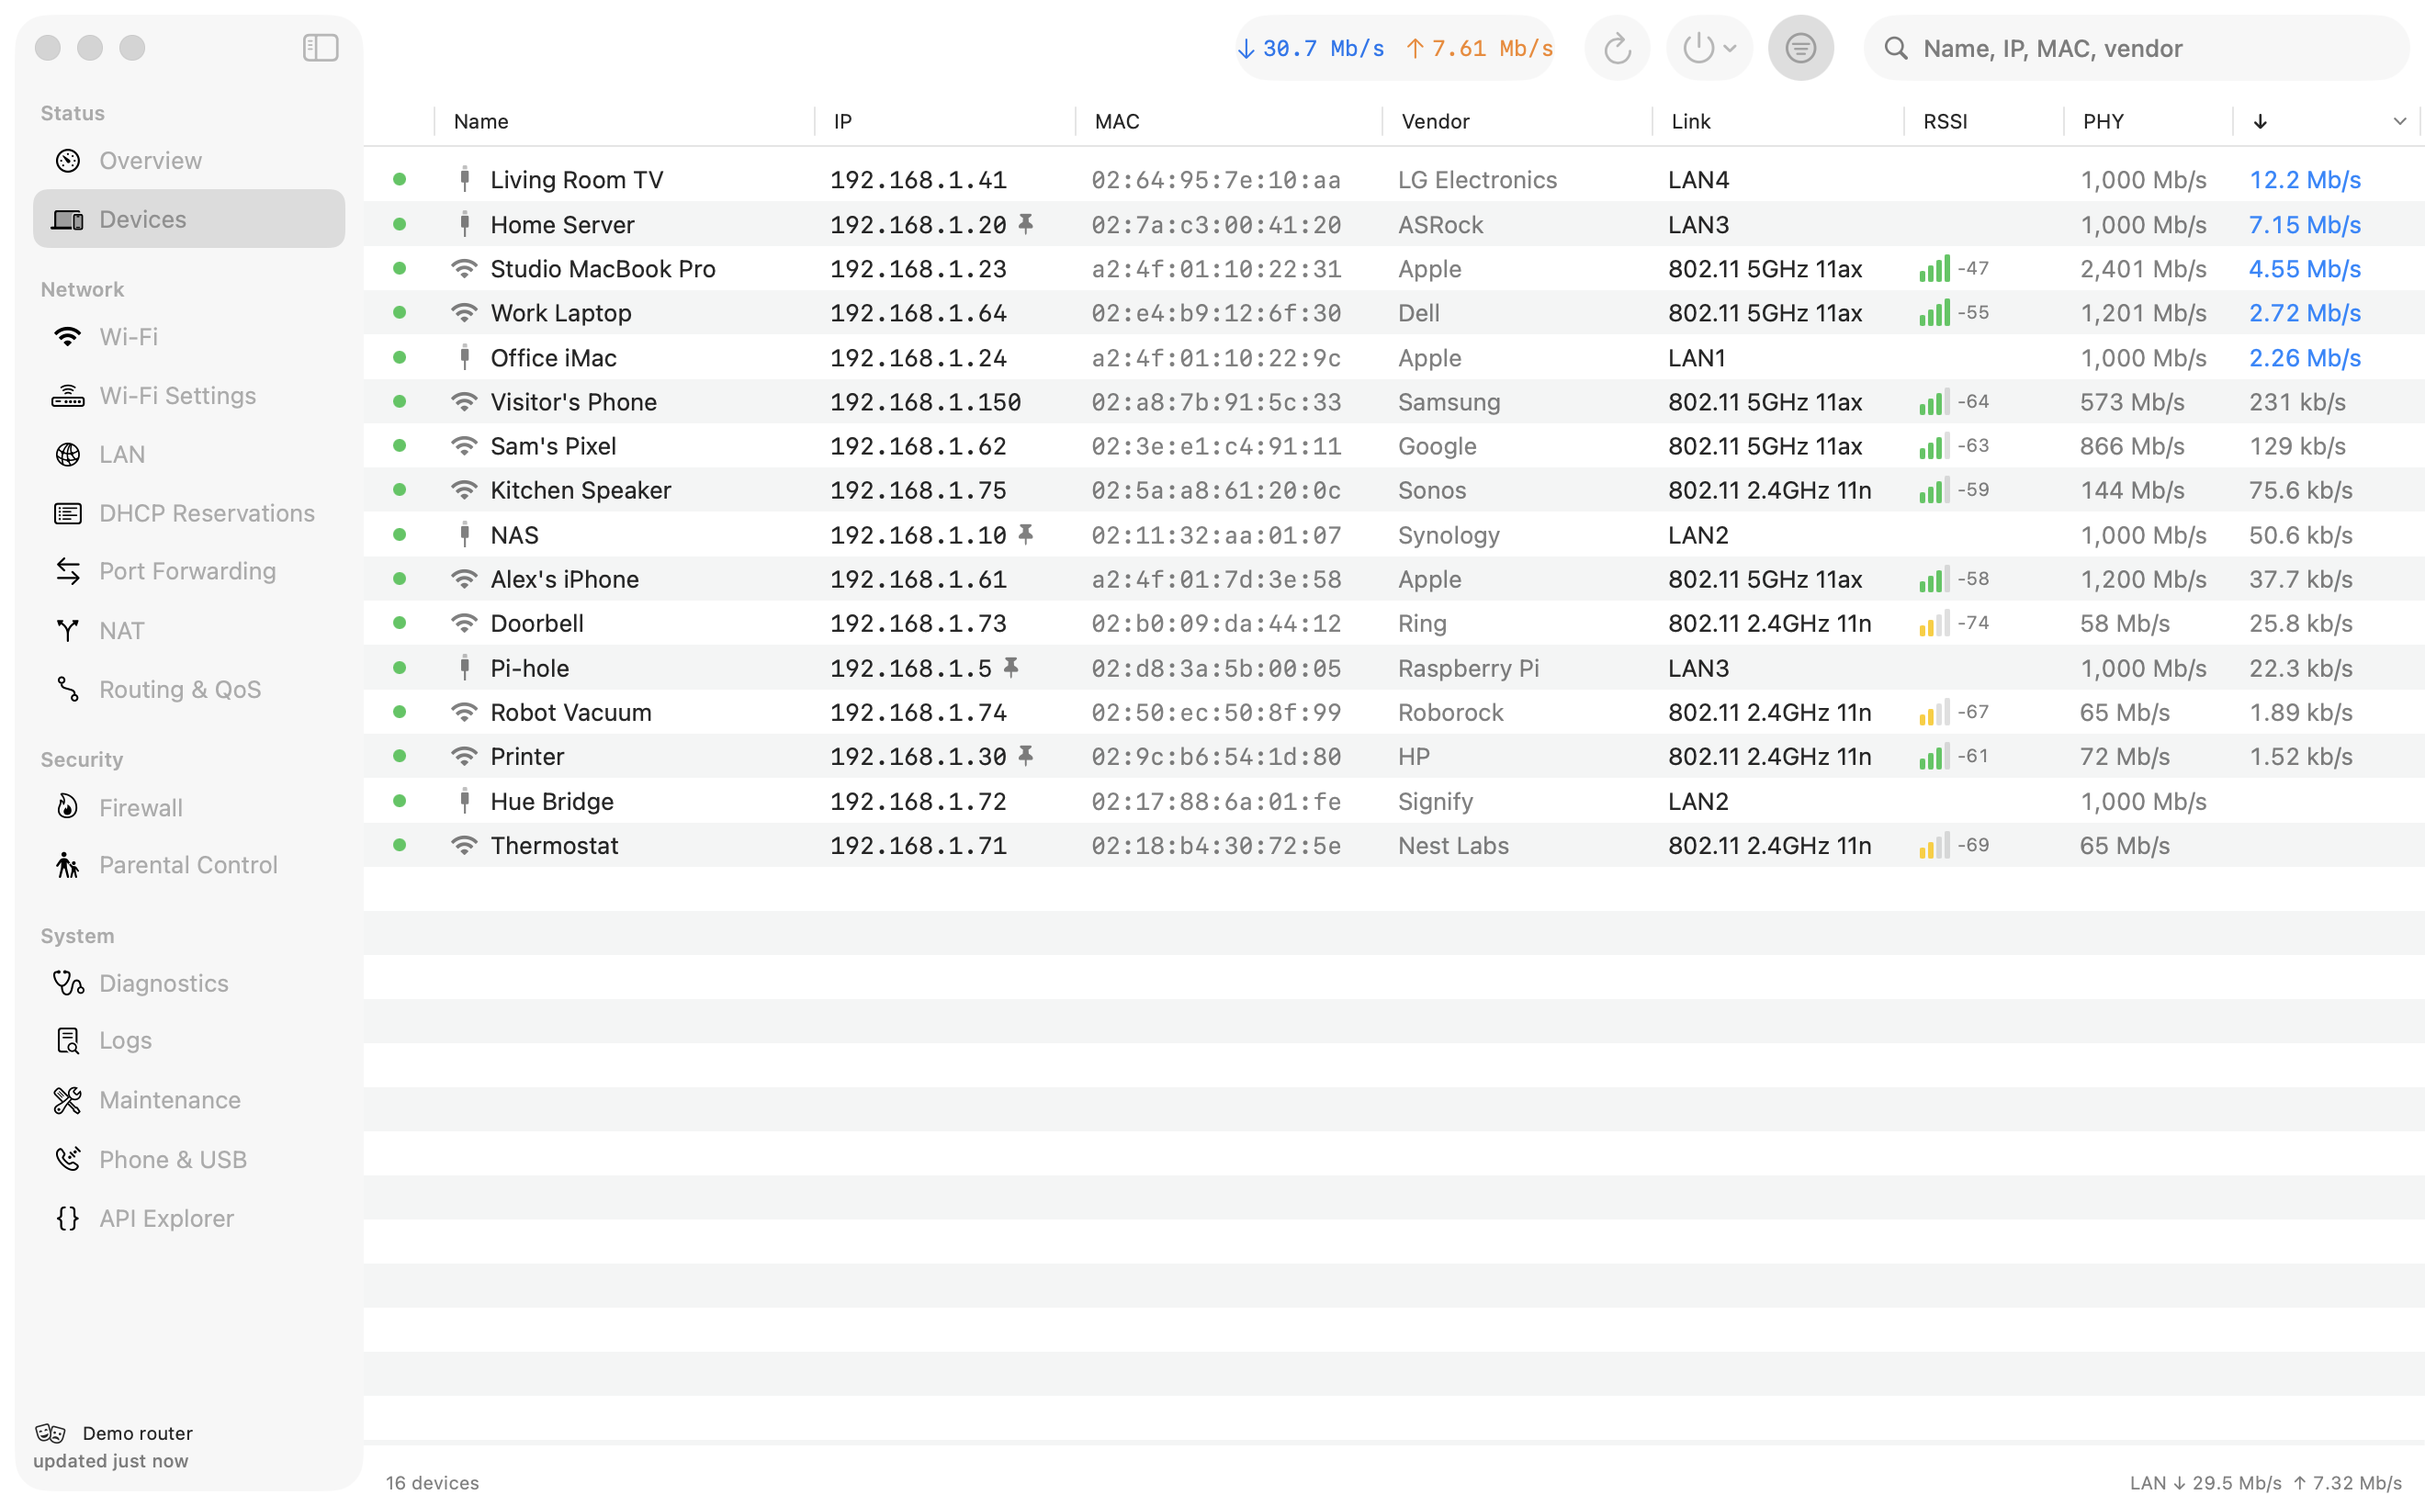
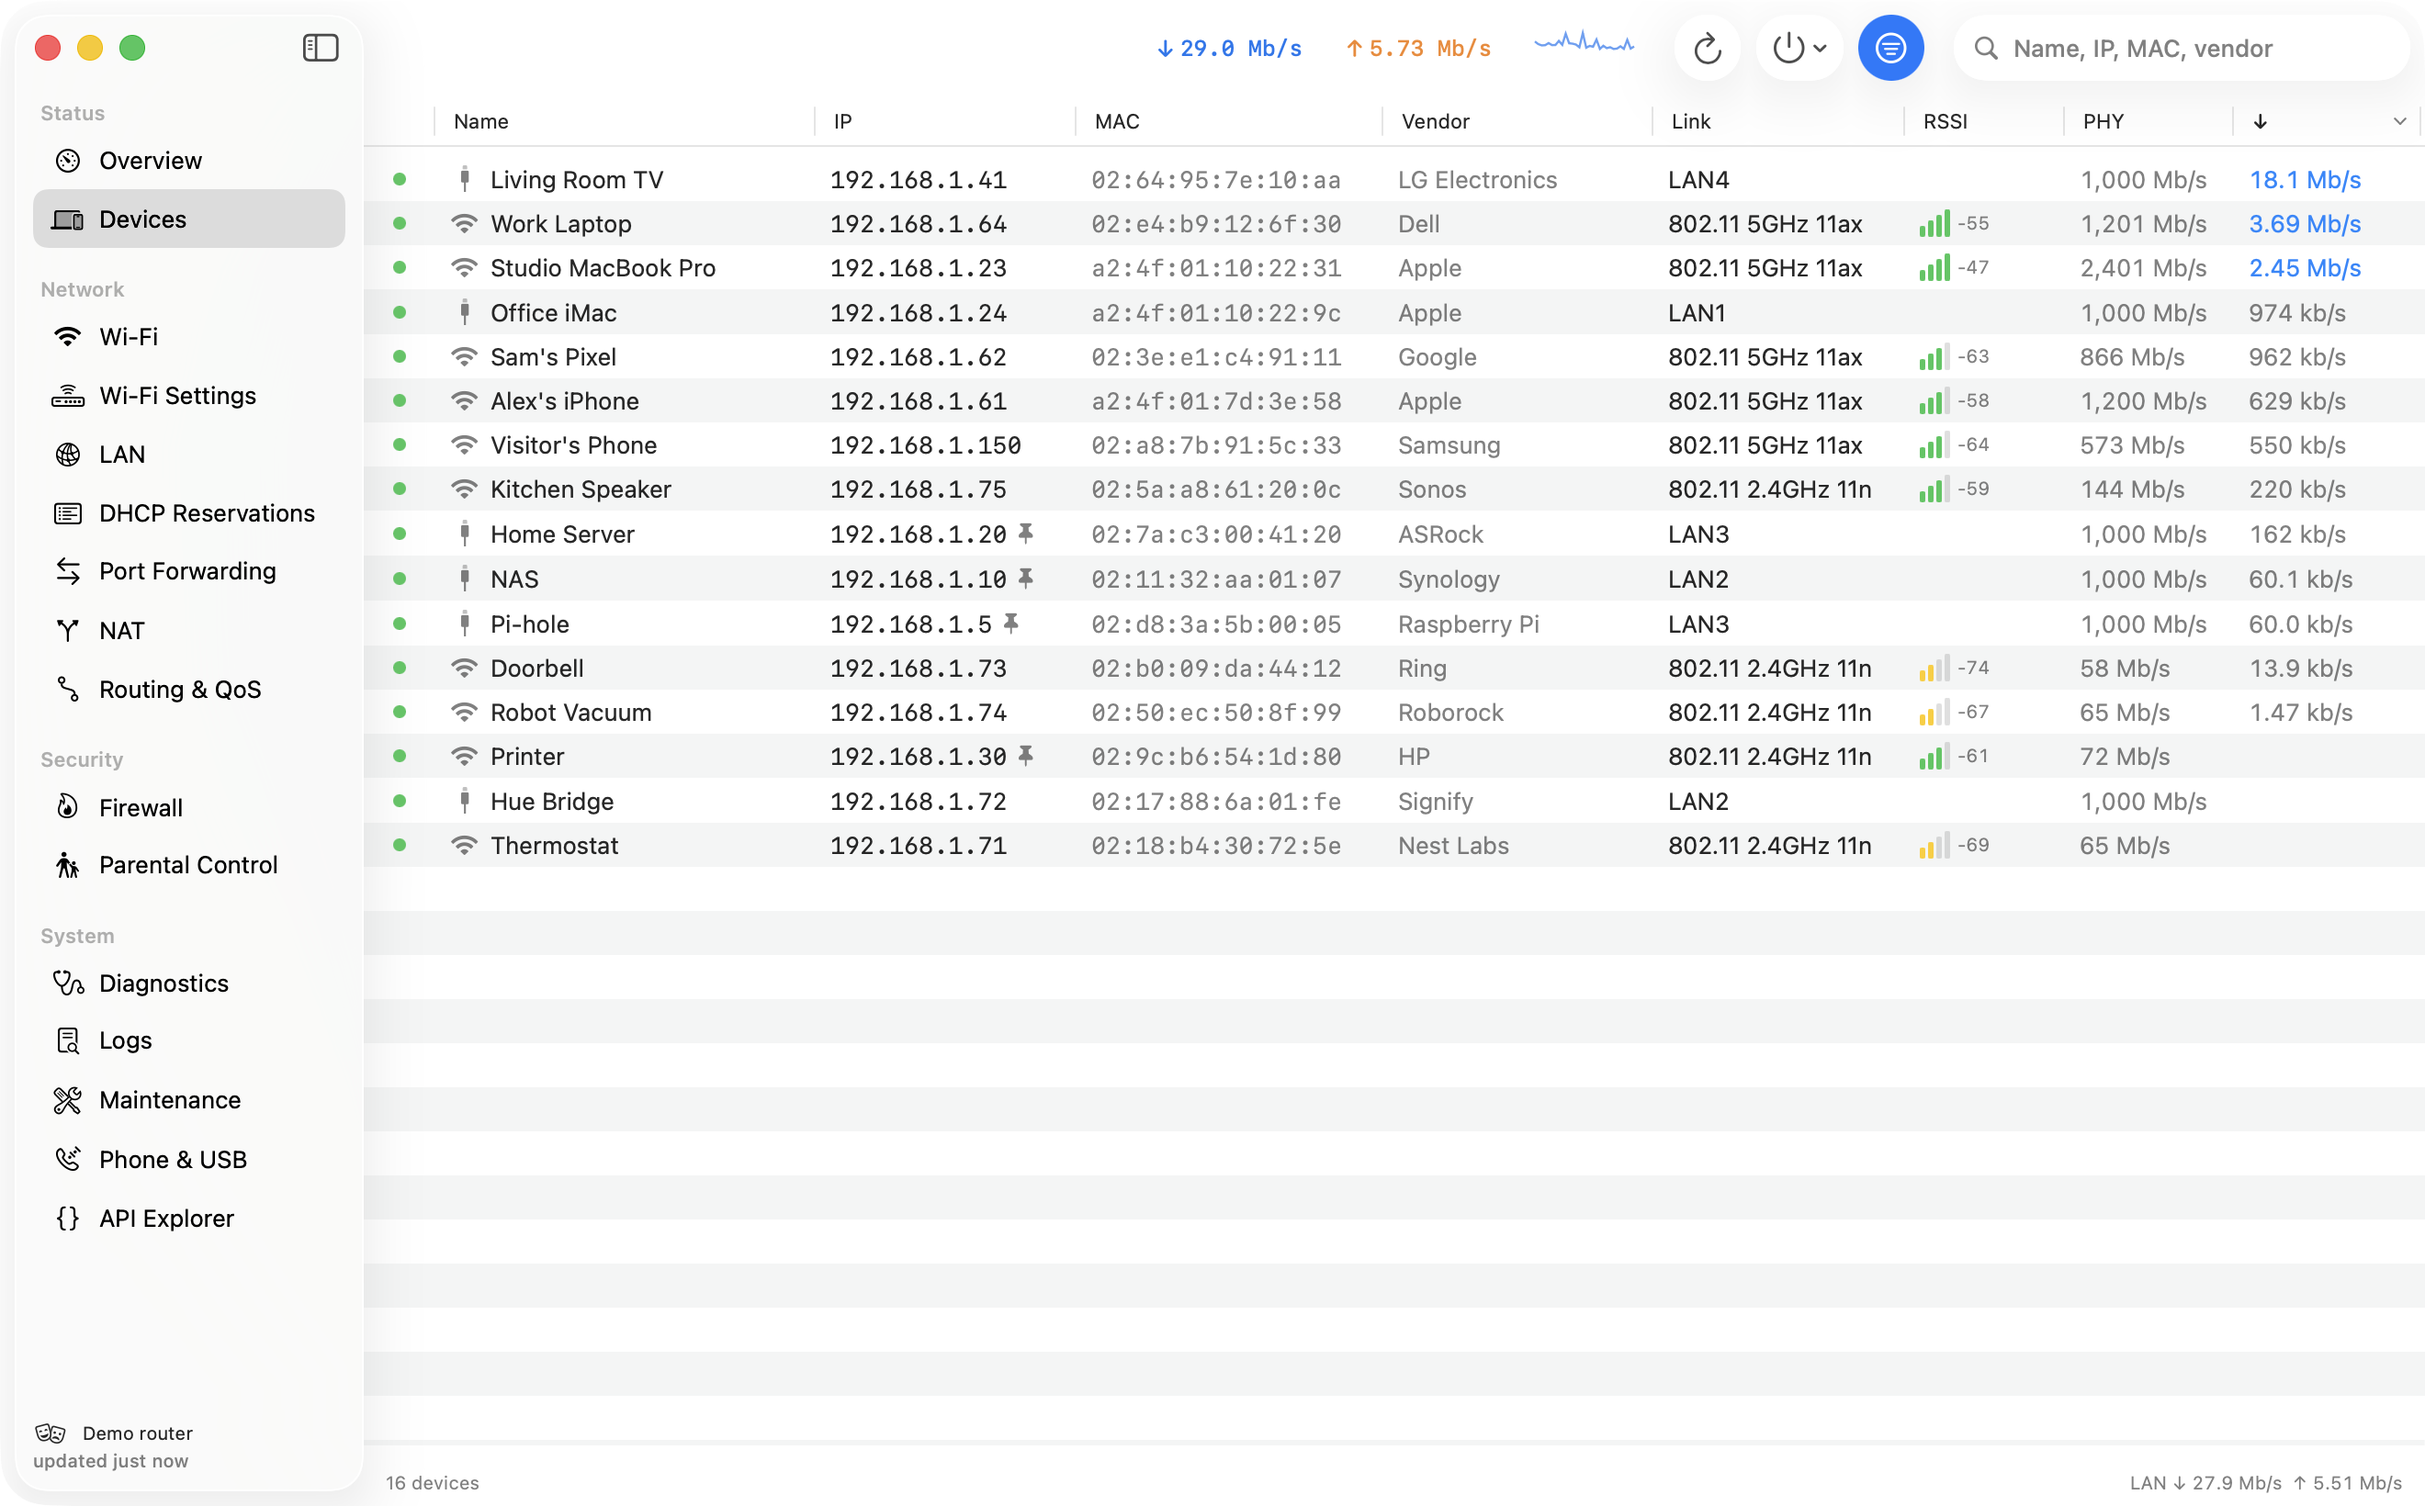
Toolbar: plain WAN rate readout with sparkline, no glass bubble
The installed build showed bare arrows because Label collapses to its icon in
toolbars. Use fixed-width text so it doesn't jiggle, hide the macOS 26 shared
toolbar background, and add a one-minute sparkline. Regenerate screenshots.

Claude-Session: https://claude.ai/code/session_01UfrZV4KQT7FSqKyWhBMqT1

diff --git a/Sources/Fyxel/Views/RootView.swift b/Sources/Fyxel/Views/RootView.swift
@@ -58,7 +58,7 @@ struct MainView: View {
             }
         }
         .toolbar {
-            ToolbarItem(placement: .status) { LiveRateChip() }
+            rateToolbarItem
             ToolbarItem {
                 Button { Task { await model.refreshAll() } } label: { Label("Refresh", systemImage: "arrow.clockwise") }
                     .help("Refresh everything (⌘R)")
@@ -99,17 +99,57 @@ struct SidebarFooter: View {
     }
 }
 
+/// WAN rate readout for the toolbar: plain text, fixed widths so it doesn't jiggle as the
+/// numbers change, and a tiny sparkline of the last minute.
+extension MainView {
+    /// On macOS 26 toolbar items get a glass bubble; the readout looks better without it.
+    @ToolbarContentBuilder var rateToolbarItem: some ToolbarContent {
+        if #available(macOS 26.0, *) {
+            ToolbarItem(placement: .status) { LiveRateChip() }.sharedBackgroundVisibility(.hidden)
+        } else {
+            ToolbarItem(placement: .status) { LiveRateChip() }
+        }
+    }
+}
+
 struct LiveRateChip: View {
     @Environment(AppModel.self) private var model
     var body: some View {
         let r = model.rates.last
-        HStack(spacing: 10) {
-            HStack(spacing: 3) { Image(systemName: "arrow.down"); Text(Fmt.bits(r?.down ?? 0)) }.foregroundStyle(.blue)
-            HStack(spacing: 3) { Image(systemName: "arrow.up"); Text(Fmt.bits(r?.up ?? 0)) }.foregroundStyle(.orange)
+        HStack(spacing: 12) {
+            rate("arrow.down", r?.down, .blue)
+            rate("arrow.up", r?.up, .orange)
+            Sparkline(values: model.rates.suffix(30).map(\.down)).frame(width: 54, height: 16)
         }
-        .font(.system(.callout, design: .monospaced))
-        .monospacedDigit()
-        .help("WAN throughput")
+        .font(.system(size: 12, weight: .medium, design: .monospaced))
+        .padding(.horizontal, 6)
+        .fixedSize()
+        .help("WAN throughput (last minute)")
+    }
+
+    func rate(_ icon: String, _ v: Double?, _ c: Color) -> some View {
+        HStack(spacing: 3) {
+            Image(systemName: icon).font(.system(size: 10, weight: .bold))
+            Text(v.map(Fmt.bits) ?? "–").frame(width: 78, alignment: .leading)
+        }
+        .foregroundStyle(c)
+    }
+}
+
+struct Sparkline: View {
+    var values: [Double]
+    var body: some View {
+        GeometryReader { g in
+            let peak = max(values.max() ?? 0, 1)
+            Path { p in
+                for (i, v) in values.enumerated() {
+                    let x = g.size.width * CGFloat(i) / CGFloat(max(values.count - 1, 1))
+                    let y = g.size.height * (1 - CGFloat(v / peak))
+                    if i == 0 { p.move(to: CGPoint(x: x, y: y)) } else { p.addLine(to: CGPoint(x: x, y: y)) }
+                }
+            }
+            .stroke(Color.blue.opacity(0.7), lineWidth: 1.2)
+        }
     }
 }
 
